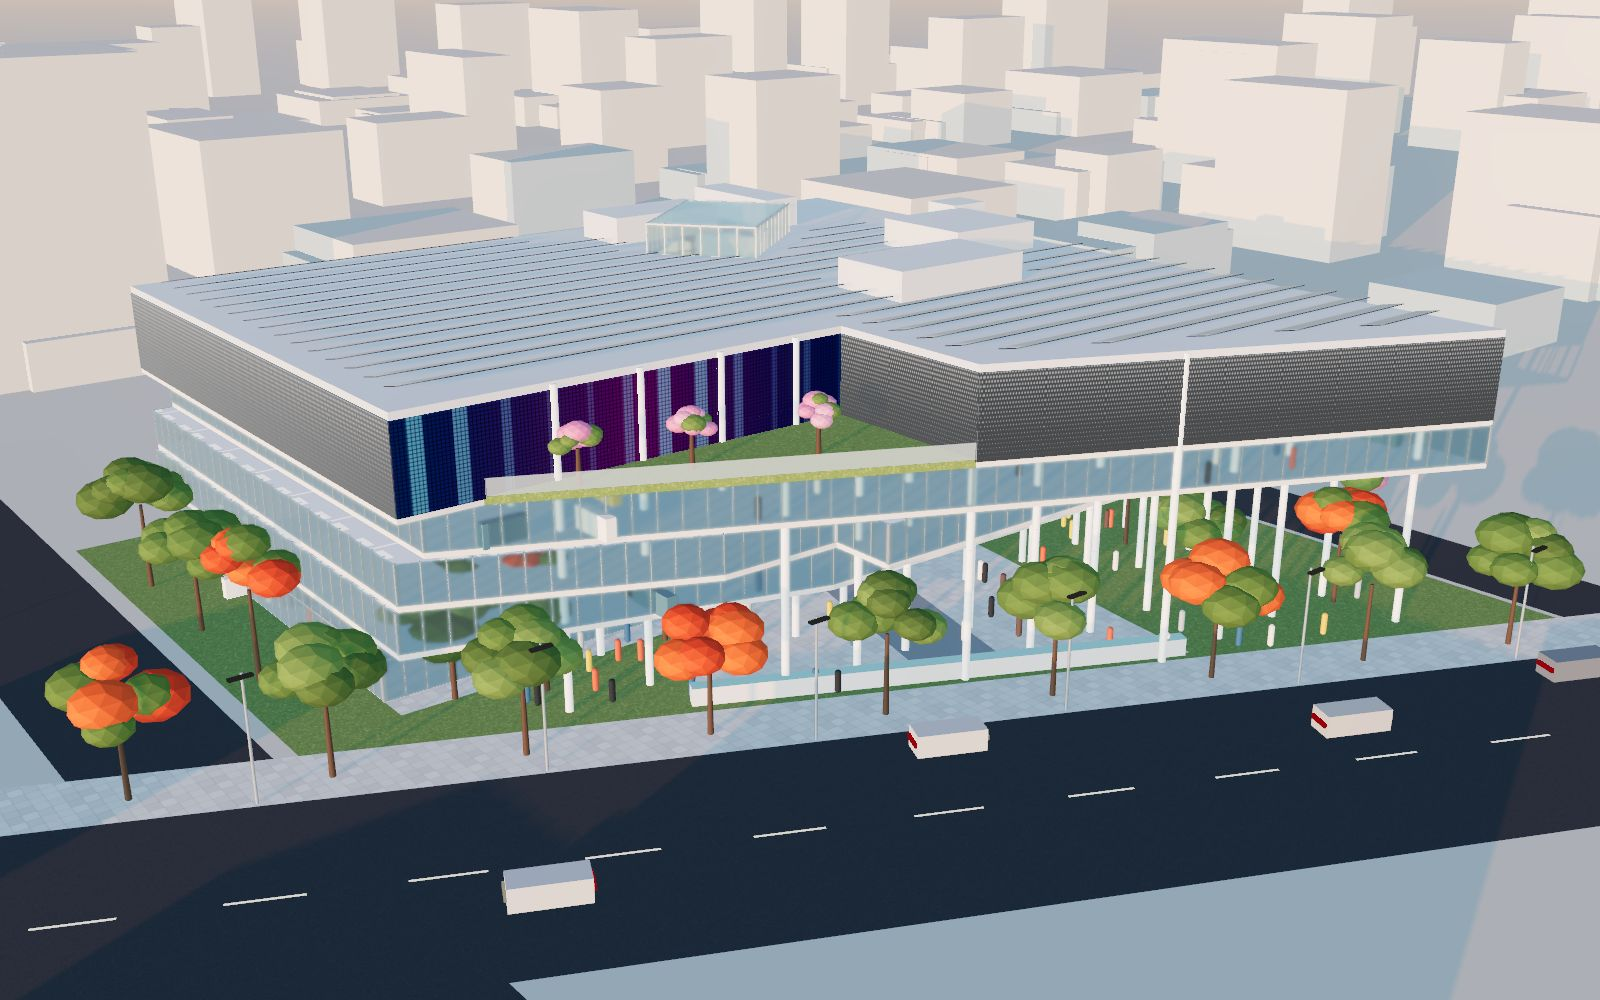
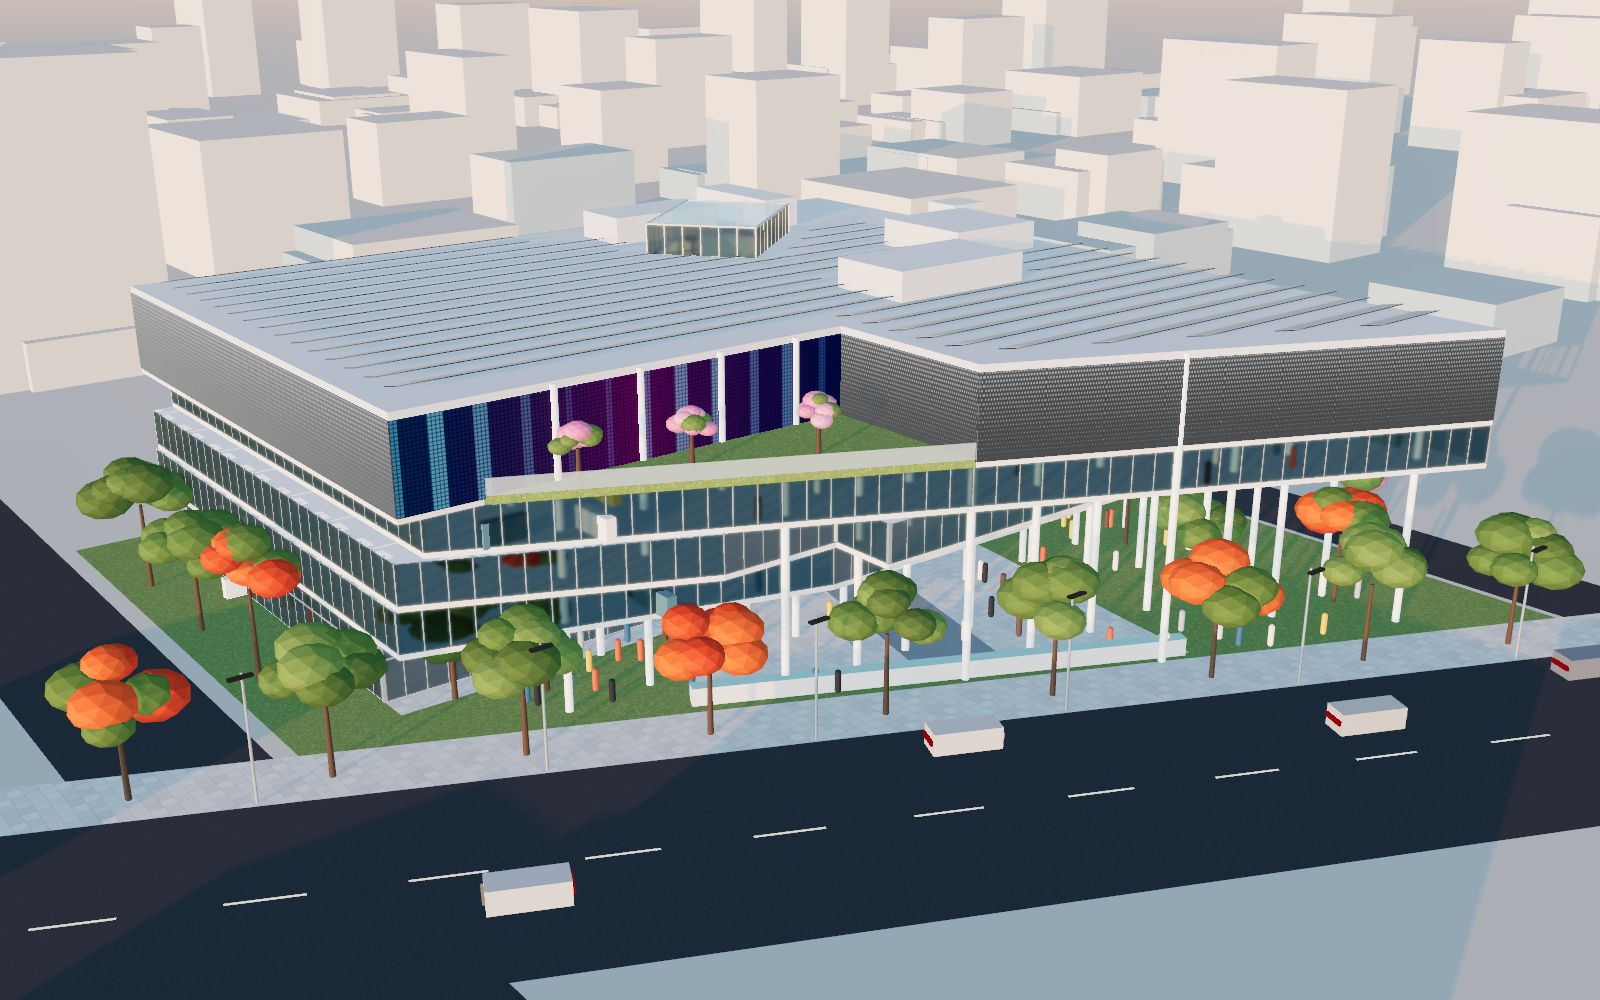
Fix glass reflections
The glazing reflected the whole scene, including the building itself and
the trees and people right in front of it, from one point in the middle of
the plan, so they showed up as large smears in the wrong places. Panes were
also thin boxes, which doubled every reflection, and the glass had a
refraction thickness that bent the interior out of line with the mullions.

Now each pane is a single surface with no refraction, tinted like low-e
glazing, and it reflects a separate scene of only distant things (sky,
ground, roads, city) that is recaptured whenever the light changes. Interior
floors and fittings no longer pick up the open-sky reflection, the north
back-of-house wall is clad in aluminium panels instead of glass, and the
cores sit just behind the glass line instead of touching it.

diff --git a/index.html b/index.html
@@ -208,7 +208,7 @@ const PX = {
 };
 const POLY = Object.fromEntries(Object.entries(PX).map(([k, v]) => [k, v.map(P)]));
 const CORES = [[995, 337, 1055, 392], [1225, 337, 1265, 460], [1318, 337, 1395, 452], [1310, 505, 1393, 565], [1350, 565, 1393, 602]]
-  .map(([a, b, c, d]) => { const p = P([a, d]), q = P([c, b]); return [p.x, p.y, q.x, q.y]; });
+  .map(([a, b, c, d]) => { const p = P([a, d]), q = P([c, b]); return [p.x, p.y, Math.min(q.x, P([1395, 0]).x - 0.3), Math.min(q.y, P([0, 337]).y - 0.3)]; });   // set back from the glass line
 // atrium: an 8.1 m square turned 39°, escalators along its north-east and south-west sides
 const AC = P([1145, 491]);
 const A_SIDE = 95 * S;
@@ -312,6 +312,12 @@ const T = {
     for (let i = 0; i < 12; i++) for (let j = 0; j < 6; j++) { g.fillStyle = (i + j) % 2 ? '#142542' : '#13223d'; g.fillRect(4 + i * cw + 0.6, 4 + j * ch + 0.6, cw - 1.2, ch - 1.2); }
     g.strokeStyle = '#a9b1ba'; g.lineWidth = 3; g.strokeRect(1.5, 1.5, w - 3, h - 3);
   }, [2, 1]),
+  clad: tex(256, 256, (g, w, h) => {                   // aluminium composite panels, 1.5 x 1 m
+    g.fillStyle = '#e6e9eb'; g.fillRect(0, 0, w, h);
+    g.fillStyle = 'rgba(70,80,88,.35)';
+    for (let x = 0; x <= w; x += 64) g.fillRect(x - 1, 0, 2, h);
+    for (let y = 0; y <= h; y += 64) g.fillRect(0, y - 1, w, 2);
+  }, [6, 4]),
   steps: tex(64, 64, (g, w, h) => { g.fillStyle = '#9aa1a6'; g.fillRect(0, 0, w, h); g.fillStyle = '#6d7479'; for (let y = 0; y < h; y += 8) g.fillRect(0, y, w, 2); }, [1, 0.4]),
 };
 // LED media screen on the multiplex: redrawn every frame
@@ -339,13 +345,15 @@ drawLED(0);
 
 // ------------------------------------------------------------------ materials
 const M = {
-  glass: new THREE.MeshPhysicalMaterial({ color: 0xc4dde2, metalness: 0, roughness: 0.02, transmission: 1, thickness: 0.04, ior: 1.5, envMapIntensity: 1.5, specularIntensity: 1, side: THREE.DoubleSide }),
+  // thin low-e glazing: light passes straight through (no thickness, no blur); reflections come from a capture of the real surroundings
+  glass: new THREE.MeshPhysicalMaterial({ color: 0xa9bfc2, metalness: 0, roughness: 0, transmission: 1, thickness: 0, ior: 2.0, specularIntensity: 1, envMapIntensity: 1.6, side: THREE.DoubleSide }),
   glassThin: new THREE.MeshPhysicalMaterial({ color: 0xd6eef2, roughness: 0.05, transparent: true, opacity: 0.22, envMapIntensity: 1.2, depthWrite: false, side: THREE.DoubleSide }),
   frit: new THREE.MeshPhysicalMaterial({ map: T.frit, metalness: 0.45, roughness: 0.12, clearcoat: 1, clearcoatRoughness: 0.05, envMapIntensity: 1.3 }),
   led: new THREE.MeshBasicMaterial({ map: ledTex, toneMapped: false }),
   alu: new THREE.MeshStandardMaterial({ color: 0xeef0f1, metalness: 0.25, roughness: 0.32 }),
+  clad: new THREE.MeshStandardMaterial({ map: T.clad, metalness: 0.3, roughness: 0.42 }),
   mullion: new THREE.MeshStandardMaterial({ color: 0xb9c1c6, metalness: 0.75, roughness: 0.28 }),
-  floor: new THREE.MeshStandardMaterial({ map: T.floor, roughness: 0.2, metalness: 0.05 }),
+  floor: new THREE.MeshStandardMaterial({ map: T.floor, roughness: 0.45, metalness: 0 }),
   ceiling: new THREE.MeshStandardMaterial({ color: 0xf2f1ee, roughness: 0.8, emissive: 0xfff0dc, emissiveMap: T.ceiling, emissiveIntensity: 0, side: THREE.DoubleSide }),
   column: new THREE.MeshStandardMaterial({ color: 0xf4f4f2, roughness: 0.4 }),
   core: new THREE.MeshStandardMaterial({ color: 0xdfe3e5, metalness: 0.2, roughness: 0.4 }),
@@ -383,6 +391,11 @@ function boxBetween(a, b, z0, h, t, out = 0, metreUV = false) {   // a vertical 
   g.rotateZ(ang); g.translate((a.x + b.x) / 2 + n.x, (a.y + b.y) / 2 + n.y, z0 + h / 2);
   return g;
 }
+function planeBetween(a, b, z0, h) {               // one glass surface along a→b
+  const d = b.clone().sub(a), g = new THREE.PlaneGeometry(d.length(), h);
+  g.rotateX(Math.PI / 2); g.rotateZ(Math.atan2(d.y, d.x)); g.translate((a.x + b.x) / 2, (a.y + b.y) / 2, z0 + h / 2);
+  return g;
+}
 const clean = (g) => { for (const k of Object.keys(g.attributes)) if (!['position', 'normal', 'uv'].includes(k)) g.deleteAttribute(k); return g.index ? g.toNonIndexed() : g; };
 const merge = (gs) => mergeGeometries(gs.map(clean));
 function mesh(geoms, mat, cast = true, recv = true) {
@@ -400,8 +413,8 @@ function curtainWall(real, segs, z0, h, kind) {
   for (const [a, b, mat] of segs) {
     const m = mat || kind;
     const panelH = h - 0.35;
-    if (m === 'glass') glass.push(boxBetween(a, b, z0, panelH, 0.04));
-    else other.push([boxBetween(a, b, z0, panelH, 0.12, 0, m === 'frit'), m]);
+    if (m === 'glass') glass.push(planeBetween(a, b, z0, panelH));
+    else other.push([boxBetween(a, b, z0, panelH, 0.12, 0, m === 'frit' || m === 'clad'), m]);
     if (m === 'glass') {
       const d = b.clone().sub(a), L = d.length(), n = Math.max(1, Math.round(L / 1.5));
       for (let i = 0; i <= n; i++) {
@@ -476,8 +489,8 @@ for (const L of LEVELS) {
     const roofG = new THREE.Group(); real.add(roofG); roofParts.push(roofG);
     roofG.add(mesh([slabGeom(poly, ROOF_Z - 0.35, 0.5, [HOLE])], M.alu));
     const lantern = HOLE.map((p, i) => [p, HOLE[(i + 1) % 4]]);
-    const lg = lantern.map(([a, b]) => boxBetween(a, b, ROOF_Z + 0.15, 2.4, 0.04));
-    const lt = new THREE.Mesh(slabGeom(HOLE, ROOF_Z + 2.55, 0.05), M.glass);
+    const lg = lantern.map(([a, b]) => planeBetween(a, b, ROOF_Z + 0.15, 2.4));
+    const lt = new THREE.Mesh(flatGeom(HOLE, ROOF_Z + 2.58), M.glass);
     const lgm = mesh(lg, M.glass, false, false); roofG.add(lgm, lt); transparentWalls.push(lgm, lt);
     const frame = [];
     for (const [a, b] of lantern) {
@@ -504,7 +517,9 @@ for (const L of LEVELS) {
       const p = P([a, d]), q = P([c, b]); const g2 = new THREE.BoxGeometry(q.x - p.x, q.y - p.y, 2.2); g2.translate((p.x + q.x) / 2, (p.y + q.y) / 2, ROOF_Z + 1.25); return g2;
     }).concat(coreGeoms(ROOF_Z, 2.6, CORES.slice(1, 2)).concat(coreGeoms(ROOF_Z, 2.6, CORES.slice(4)))), M.alu));
   } else {
-    curtainWall(real, edgesOf(poly), z, h, 'glass');
+    const NORTH = POLY.GF[0].y, EAST = POLY.GF[1].x, near = (u, v) => Math.abs(u - v) < 0.05;
+    curtainWall(real, edgesOf(poly).map(([a, b]) => [a, b,
+      near(a.y, NORTH) && near(b.y, NORTH) ? 'clad' : (L.id === 'GF' && near(a.x, EAST) && near(b.x, EAST) ? 'clad' : 'glass')]), z, h, 'glass');
   }
   if (L.id === '3F') {   // roof terrace where the multiplexes step back
     const t = [P([698, 830]), P([1010, 830]), P([1010, 980])];
@@ -567,7 +582,7 @@ const site = new THREE.Group(); root.add(site);
     const list = all.filter((q) => q[0] === id); if (!list.length) continue;
     const im = new THREE.InstancedMesh(cap, M.people, list.length), m4 = new THREE.Matrix4(), c = new THREE.Color();
     list.forEach(([, x, y, z], i) => { m4.makeTranslation(x, y, z + 0.82); im.setMatrixAt(i, m4); im.setColorAt(i, c.set(pal[i % pal.length])); });
-    im.castShadow = true;
+    im.castShadow = true; im.userData.near = true;
     (id === 'court' ? site : groups[id].real).add(im);
   }
 }
@@ -580,24 +595,25 @@ const ext = (k) => [diagA.clone().add(dDir.clone().multiplyScalar(-300)), diagB.
 function band(k0, k1) { const [a0, b0] = ext(k0), [a1, b1] = ext(k1); return [a0, b0, b1, a1]; }
 const groundMat = new THREE.MeshStandardMaterial({ color: 0xd2ccc0, roughness: 1 });
 const ground = new THREE.Mesh(new THREE.PlaneGeometry(6000, 6000), groundMat); ground.position.set(CX, CY, -0.08); ground.receiveShadow = true; site.add(ground);
+const reflectables = [ground];   // far scenery for the glass reflections
 const sitePoly = [P([575, 270]), P([1474, 270]), P([1474, 1195]), P([575, 772])];
-site.add(mesh([flatGeom(sitePoly, -0.03)], new THREE.MeshStandardMaterial({ map: T.grass, roughness: 1 }), false));
+{ const lawn = mesh([flatGeom(sitePoly, -0.03)], new THREE.MeshStandardMaterial({ map: T.grass, roughness: 1 }), false); site.add(lawn); reflectables.push(lawn); }
 const paveMat = new THREE.MeshStandardMaterial({ map: T.pavers, roughness: 0.85 });
 site.add(mesh([flatGeom([P([950, 733]), P([1230, 733]), P([1185, 1048]), P([830, 876])], 0.0)], paveMat, false));
 site.add(mesh([flatGeom([P([657, 733]), P([1395, 733]), P([1395, 760]), P([657, 760])], -0.005)], paveMat, false));
 site.add(mesh([flatGeom(band(0, 5.5), -0.01)], paveMat, false));
-site.add(mesh([flatGeom(band(5.5, 25), -0.02)], new THREE.MeshStandardMaterial({ map: T.asphalt, roughness: 0.95 }), false));
-site.add(mesh([flatGeom([P([440, -400]), P([560, -400]), P([560, 2000]), P([440, 2000])], -0.025)], new THREE.MeshStandardMaterial({ map: T.asphalt, roughness: 0.95 }), false));
-site.add(mesh([flatGeom([P([1480, -400]), P([1570, -400]), P([1570, 2000]), P([1480, 2000])], -0.025)], new THREE.MeshStandardMaterial({ map: T.asphalt, roughness: 0.95 }), false));
+for (const pts of [band(5.5, 25), [P([440, -400]), P([560, -400]), P([560, 2000]), P([440, 2000])], [P([1480, -400]), P([1570, -400]), P([1570, 2000]), P([1480, 2000])]]) {
+  const road = mesh([flatGeom(pts, -0.02)], new THREE.MeshStandardMaterial({ map: T.asphalt, roughness: 0.95 }), false); site.add(road); reflectables.push(road);
+}
 { // lane marks
   const g = []; const [a, b] = ext(15.2), d = b.clone().sub(a), L = d.length();
   for (let s = 0; s < L; s += 9) { const p = a.clone().add(d.clone().multiplyScalar(s / L)); g.push(boxBetween(p, p.clone().add(dDir.clone().multiplyScalar(4)), 0.0, 0.01, 0.18)); }
   site.add(mesh(g, new THREE.MeshBasicMaterial({ color: 0xe8e3d6 }), false, false));
 }
 // the feature wall along the road and the drop-off ramp from the drawing
-site.add(mesh([boxBetween(P([830, 876]), P([1180, 1045]), 0, 1.2, 0.9)], M.alu));
+{ const fw = mesh([boxBetween(P([830, 876]), P([1180, 1045]), 0, 1.2, 0.9)], M.alu); fw.userData.near = true; site.add(fw); }
 const ledStrip = new THREE.Mesh(boxBetween(P([830, 876]), P([1180, 1045]), 1.2, 0.06, 0.95), new THREE.MeshBasicMaterial({ color: 0x9fe8ff, toneMapped: false }));
-site.add(ledStrip);
+ledStrip.userData.near = true; site.add(ledStrip);
 site.add(mesh([flatGeom([P([1055, 733]), P([1125, 733]), P([1065, 965]), P([1000, 935])], 0.012)], new THREE.MeshStandardMaterial({ color: 0x8d9396, roughness: 0.7 }), false));
 // trees
 const SPEC = [['#5e7f39', '#6f8f45', '#526f31'], ['#4b6a30', '#587a37', '#62843d'], ['#d8471d', '#e85d24', '#5d7c35'], ['#e48db3', '#f0a6c5', '#6b8a42']];
@@ -624,8 +640,8 @@ const treeSpots = [];
     }
   }
   const fm = new THREE.Mesh(mergeGeometries(fol), new THREE.MeshStandardMaterial({ vertexColors: true, roughness: 0.9, flatShading: true }));
-  fm.castShadow = fm.receiveShadow = true; site.add(fm);
-  const tm = mesh(tr, new THREE.MeshStandardMaterial({ color: 0x5b4636, roughness: 0.95 })); site.add(tm);
+  fm.castShadow = fm.receiveShadow = true; fm.userData.near = true; site.add(fm);
+  const tm = mesh(tr, new THREE.MeshStandardMaterial({ color: 0x5b4636, roughness: 0.95 })); tm.userData.near = true; site.add(tm);
 }
 // street lights and cars on the main road
 const streetGlow = [];
@@ -636,8 +652,8 @@ const streetGlow = [];
     const c = new THREE.CylinderGeometry(0.08, 0.1, 8, 8); c.rotateX(Math.PI / 2); c.translate(p.x, p.y, 4); poles.push(c);
     const hd = new THREE.BoxGeometry(1.4, 0.35, 0.15); hd.translate(p.x + dOut.x * 0.6, p.y + dOut.y * 0.6, 8); heads.push(hd);
   }
-  site.add(mesh(poles, M.mullion));
-  const hm = new THREE.Mesh(merge(heads), new THREE.MeshBasicMaterial({ color: 0x333333, toneMapped: false })); site.add(hm); streetGlow.push(hm);
+  const pm = mesh(poles, M.mullion); pm.userData.near = true; site.add(pm);
+  const hm = new THREE.Mesh(merge(heads), new THREE.MeshBasicMaterial({ color: 0x333333, toneMapped: false })); hm.userData.near = true; site.add(hm); streetGlow.push(hm);
 }
 const cars = (() => {
   const n = 34, g = new THREE.BoxGeometry(4.3, 1.8, 1.4); g.translate(0, 0, 0.75);
@@ -645,9 +661,9 @@ const cars = (() => {
   const cc = new THREE.Color(), pal = ['#e8e8e6', '#2a2d31', '#8b9196', '#b73b2f', '#1f3b5c', '#dcdad4'];
   const st = Array.from({ length: n }, (_, i) => ({ s: r() * 600, lane: [8.2, 11.6, 18.6, 22][i % 4], v: 9 + r() * 5 }));
   st.forEach((c, i) => im.setColorAt(i, cc.set(pal[i % pal.length])));
-  im.castShadow = true; site.add(im);
+  im.castShadow = true; im.userData.near = true; site.add(im);
   const lightG = new THREE.InstancedMesh(new THREE.BoxGeometry(0.2, 1.5, 0.3), new THREE.MeshBasicMaterial({ color: 0xffffff, toneMapped: false }), n * 2);
-  site.add(lightG);
+  lightG.userData.near = true; site.add(lightG);
   const [a0] = ext(0);
   return { im, st, lightG, step(dt) {
     const m4 = new THREE.Matrix4(), q = new THREE.Quaternion();
@@ -680,7 +696,7 @@ const cars = (() => {
       const g = new THREE.BoxGeometry(w, d, h); g.translate(bx + 5 + w / 2 + rr() * Math.max(0, 32 - w), by + 5 + d / 2 + rr() * Math.max(0, 32 - d), h / 2); boxes.push(g);
     }
   }
-  const city = mesh(boxes, new THREE.MeshStandardMaterial({ color: 0xd9d4cb, roughness: 0.95 })); site.add(city);
+  const city = mesh(boxes, new THREE.MeshStandardMaterial({ color: 0xd9d4cb, roughness: 0.95 })); site.add(city); reflectables.push(city);
   var cityMesh = city;
 }
 
@@ -702,6 +718,29 @@ const envScene = new THREE.Scene(); const envSky = new Sky(); envSky.scale.setSc
 const pmrem = new THREE.PMREMGenerator(renderer);
 const roomEnv = pmrem.fromScene(new RoomEnvironment(), 0.03).texture;
 let skyEnvRT = null;
+const probeRT = new THREE.WebGLCubeRenderTarget(512, { type: THREE.HalfFloatType, generateMipmaps: true, minFilter: THREE.LinearMipmapLinearFilter });
+const probe = new THREE.CubeCamera(0.5, 40000, probeRT);
+let probeEnv = null;
+const reflScene = new THREE.Scene();
+const reflRoot = new THREE.Group(); reflRoot.rotation.copy(root.rotation); reflRoot.position.copy(root.position); reflScene.add(reflRoot);
+for (const m of reflectables) { const c = new THREE.Mesh(m.geometry, m.material); c.position.copy(m.position); c.rotation.copy(m.rotation); c.scale.copy(m.scale); reflRoot.add(c); }
+const reflSky = new Sky(); reflSky.scale.setScalar(2000); reflSky.material.uniforms = U; reflScene.add(reflSky);
+let reflDome = null;                         // the night sky, made once the dome exists
+const reflHemi = new THREE.HemisphereLight(), reflSun = new THREE.DirectionalLight(); reflScene.add(reflHemi, reflSun);
+function captureReflections() {
+  // The glass reflects a scene of distant things only: sky, ground, roads and the city, seen from the
+  // middle of the building. Trees, people and cars a few metres from the glass would land in the wrong
+  // place, because a single reflection probe cannot know how far away they are.
+  probe.position.copy(W(CX, CY - 10, 9));
+  if (!reflDome) { reflDome = new THREE.Mesh(dome.geometry, dome.material); reflDome.scale.setScalar(900 / 15000); reflDome.renderOrder = 1; reflScene.add(reflDome); }
+  reflHemi.color.copy(hemi.color); reflHemi.groundColor.copy(hemi.groundColor); reflHemi.intensity = hemi.intensity;
+  reflSun.color.copy(sun.color); reflSun.intensity = sun.intensity; reflSun.position.copy(sun.position); reflSun.target.position.copy(sun.target.position);
+  reflScene.fog = scene.fog;
+  probe.update(renderer, reflScene);
+  if (probeEnv) probeEnv.dispose();
+  probeEnv = pmrem.fromCubemap(probeRT.texture);
+  M.glass.envMap = probeEnv.texture; M.glass.needsUpdate = true;
+}
 const sun = new THREE.DirectionalLight(0xfff3e2, 3);
 sun.castShadow = true; sun.shadow.mapSize.set(small ? 2048 : 4096, small ? 2048 : 4096);
 Object.assign(sun.shadow.camera, { left: -110, right: 110, top: 110, bottom: -110, near: 10, far: 700 });
@@ -793,6 +832,7 @@ function apply() {
   }
   for (const m of roofParts) m.visible = state.cut !== '4F';
   for (const c of lights) c.visible = c.userData.level !== state.cut;
+  if (!crystal) captureReflections();
   document.querySelectorAll('[data-mode]').forEach((b) => b.setAttribute('aria-pressed', String(b.dataset.mode === state.mode)));
   document.querySelectorAll('[data-light]').forEach((b) => { b.setAttribute('aria-pressed', String(b.dataset.light === state.light)); b.disabled = crystal; b.style.opacity = crystal ? 0.45 : 1; });
   $('#explode').setAttribute('aria-pressed', String(state.explode));
@@ -884,6 +924,7 @@ function frame(now) {
   requestAnimationFrame(frame);
 }
 scene.traverse((o) => { const m = o.material; if (m && m.isMeshStandardMaterial && !m.isMeshPhysicalMaterial) m.envMapIntensity = m.roughness > 0.6 ? 0.35 : 0.6; });
+for (const m of [M.floor, M.ceiling, M.column, M.core, M.fixtures]) m.envMapIntensity = 0.18;   // indoors: lit by the room, not by the open sky
 apply();
 flyTo(VIEWS.aerial, true);
 resize();
